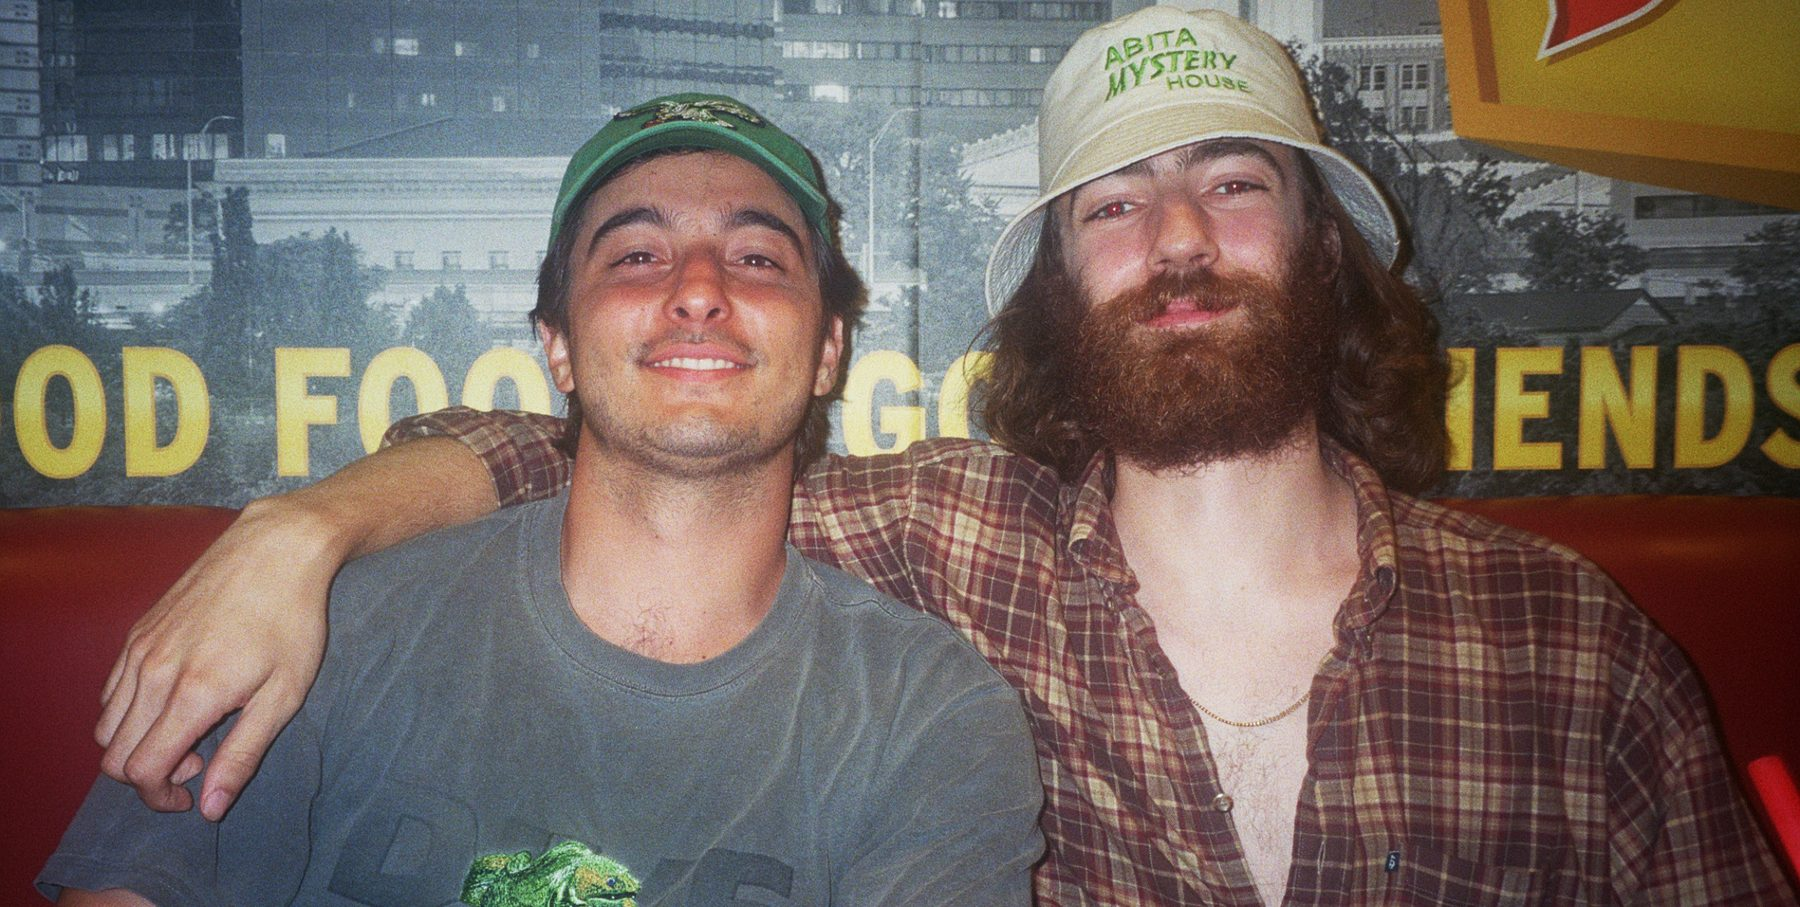
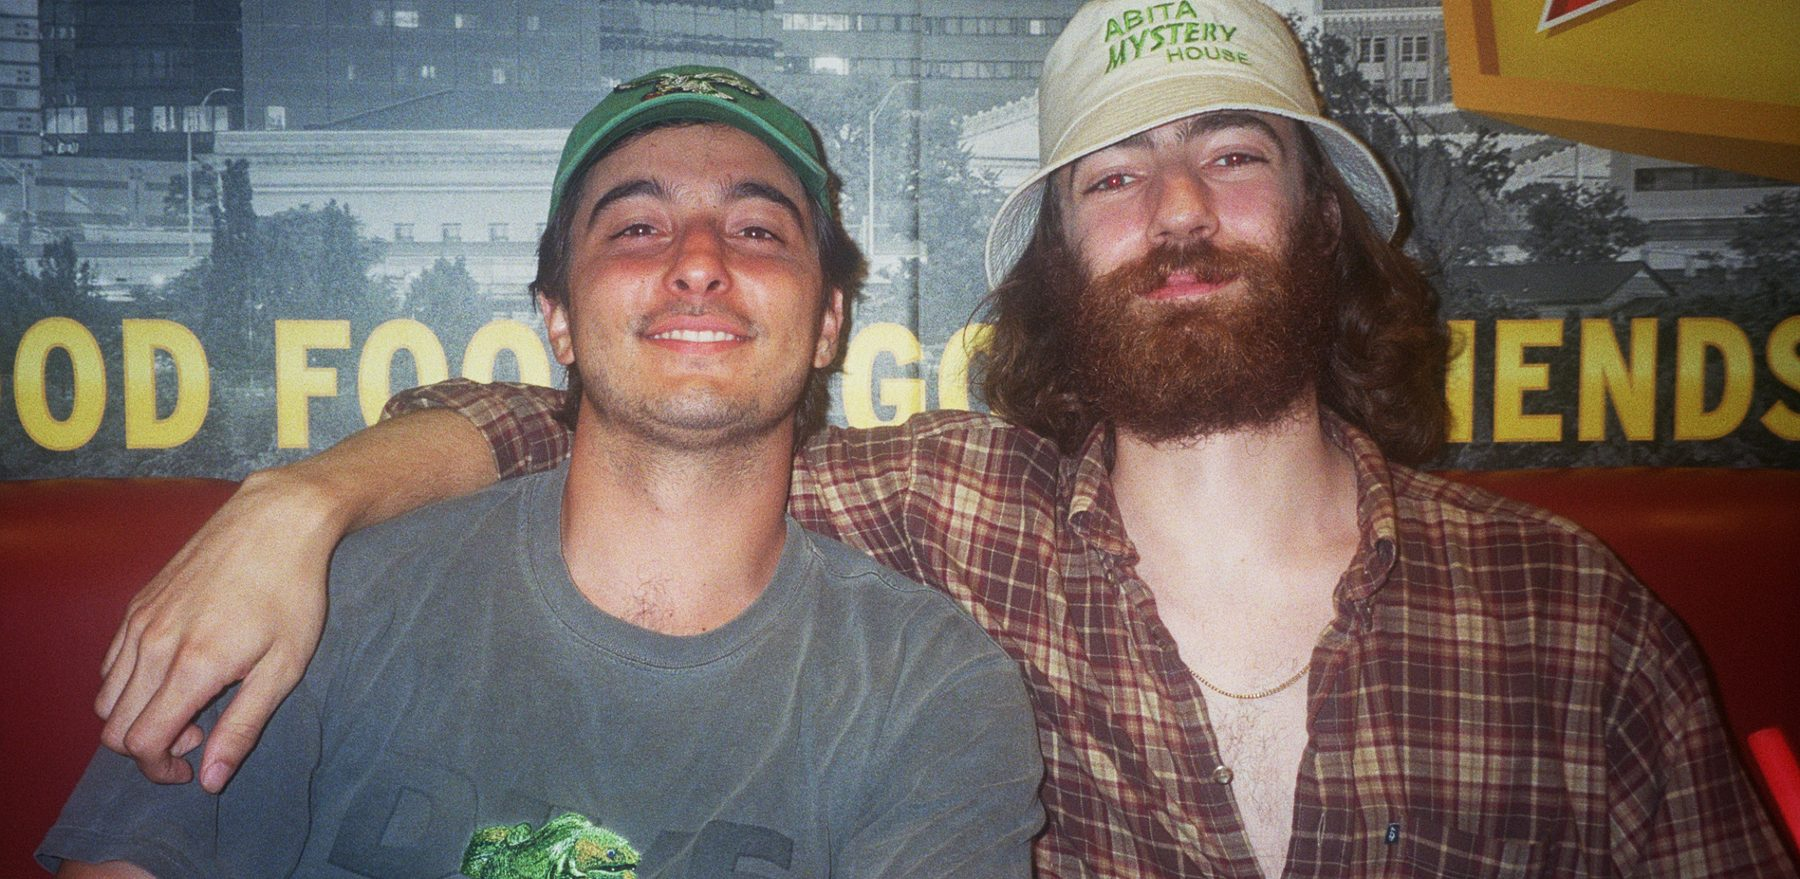
Larger photo-led home hero

diff --git a/css/styles.css b/css/styles.css
@@ -145,9 +145,9 @@ p  { margin: 0 0 1.1em; }
 .photo-hero img {
   display: block;
   width: 100%;
-  aspect-ratio: 1800 / 907;
-  max-height: max(280px, calc(100vh - 270px));
-  max-height: max(280px, calc(100svh - 270px));
+  aspect-ratio: 1800 / 879;
+  max-height: max(280px, calc(1.15 * (100vh - 270px)));
+  max-height: max(280px, calc(1.15 * (100svh - 270px)));
   object-fit: cover;
   object-position: center top;
 }
@@ -163,7 +163,7 @@ p  { margin: 0 0 1.1em; }
   color: var(--text-muted);
   text-align: center;
   margin: 14px 0 0;
-  padding-bottom: clamp(14px, 1.8vw, 22px);
+  padding-bottom: clamp(8px, 1vw, 14px);
 }
 
 /* --------------------------------------------------------------------------
@@ -187,7 +187,7 @@ p  { margin: 0 0 1.1em; }
 .hero-inner {
   max-width: var(--maxw);
   margin-inline: auto;
-  padding: clamp(30px, 5vw, 66px) 24px clamp(32px, 4.2vw, 52px);
+  padding: clamp(22px, 3.2vw, 44px) 24px clamp(32px, 4.2vw, 52px);
   display: grid;
   grid-template-columns: minmax(0, 1fr) minmax(240px, 340px);
   gap: clamp(32px, 6vw, 72px);

diff --git a/index.html b/index.html
@@ -18,7 +18,7 @@
 <meta property="og:title" content="Yesterday, Nothing In My Life Changed">
 <meta property="og:description" content="A raucous taxi driver pursues his musician dreams alongside his late friend's niece. A new feature written and directed by Adi Jahić.">
 <meta property="og:image" content="images/ynimlc-poster-cropped.jpg">
-<link rel="stylesheet" href="css/styles.css?v=202610021430">
+<link rel="stylesheet" href="css/styles.css?v=202610021434">
 </head>
 <body>
 
@@ -44,7 +44,7 @@
 
   <!-- ======================= PHOTO ======================= -->
   <section class="photo-hero">
-    <img src="images/home-hero.jpg" alt="Adi Jahić and Max Tanzer sitting in a diner booth" width="1800" height="907">
+    <img src="images/home-hero.jpg" alt="Adi Jahić and Max Tanzer sitting in a diner booth" width="1800" height="879">
     <div class="wrap">
       <p class="photo-hero-caption">Adi Jahić (left), writer/director, with cinematographer Max Tanzer on the set of <em>Yesterday, Nothing In My Life Changed</em>.</p>
     </div>

diff --git a/films/words-that-cant-be-unsaid.html b/films/words-that-cant-be-unsaid.html
@@ -17,7 +17,7 @@
 <meta property="og:title" content="Words That Can’t Be Unsaid &amp; Things That Can’t Be Undone (2019)">
 <meta property="og:description" content="A young man and woman deal with the complex push and pull of a recently ended relationship.">
 <meta property="og:image" content="../images/wordsthat.webp">
-<link rel="stylesheet" href="../css/styles.css?v=202610021430">
+<link rel="stylesheet" href="../css/styles.css?v=202610021434">
 </head>
 <body>
 

diff --git a/films/things-we-like.html b/films/things-we-like.html
@@ -17,7 +17,7 @@
 <meta property="og:title" content="Things We Like (2023)">
 <meta property="og:description" content="When Georgia meets a young man from Boston, Peter, she leaves her mundane life in suburban Vermont searching for something more.">
 <meta property="og:image" content="../images/things-we-like-poster.webp">
-<link rel="stylesheet" href="../css/styles.css?v=202610021430">
+<link rel="stylesheet" href="../css/styles.css?v=202610021434">
 </head>
 <body>
 

diff --git a/films/yesterday-nothing-in-my-life-changed.html b/films/yesterday-nothing-in-my-life-changed.html
@@ -17,7 +17,7 @@
 <meta property="og:title" content="Yesterday, Nothing In My Life Changed (2026)">
 <meta property="og:description" content="A raucous taxi driver pursues his musician dreams alongside his late friend's niece.">
 <meta property="og:image" content="../images/ynimlc-poster-cropped.jpg">
-<link rel="stylesheet" href="../css/styles.css?v=202610021430">
+<link rel="stylesheet" href="../css/styles.css?v=202610021434">
 </head>
 <body>
 

diff --git a/films/shorts.html b/films/shorts.html
@@ -17,7 +17,7 @@
 <meta property="og:title" content="Shorts">
 <meta property="og:description" content="Short films written and directed by Adi Jahić as an undergraduate.">
 <meta property="og:image" content="../images/darlings-poster.jpg">
-<link rel="stylesheet" href="../css/styles.css?v=202610021430">
+<link rel="stylesheet" href="../css/styles.css?v=202610021434">
 </head>
 <body>
 

diff --git a/about.html b/about.html
@@ -16,7 +16,7 @@
 <meta property="og:type" content="profile">
 <meta property="og:title" content="About — Adi Jahić">
 <meta property="og:description" content="Micro-budget independent filmmaker based in Providence and Los Angeles.">
-<link rel="stylesheet" href="css/styles.css?v=202610021430">
+<link rel="stylesheet" href="css/styles.css?v=202610021434">
 </head>
 <body>
 

diff --git a/photography.html b/photography.html
@@ -16,7 +16,7 @@
 <meta property="og:type" content="website">
 <meta property="og:title" content="Photography &mdash; Adi Jahi&#263;">
 <meta property="og:description" content="The series Americana, Summer and Skin Mag.">
-<link rel="stylesheet" href="css/styles.css?v=202610021430">
+<link rel="stylesheet" href="css/styles.css?v=202610021434">
 </head>
 <body>
 

diff --git a/films/darlings.html b/films/darlings.html
@@ -17,7 +17,7 @@
 <meta property="og:title" content="Darlings (2019)">
 <meta property="og:description" content="A young woman does her laundry.">
 <meta property="og:image" content="../images/darlings-poster.jpg">
-<link rel="stylesheet" href="../css/styles.css?v=202610021430">
+<link rel="stylesheet" href="../css/styles.css?v=202610021434">
 </head>
 <body>
 

diff --git a/films/short-film-two.html b/films/short-film-two.html
@@ -15,7 +15,7 @@
 <meta property="og:type" content="video.movie">
 <meta property="og:title" content="Short Film II (Year)">
 <meta property="og:description" content="Logline to come.">
-<link rel="stylesheet" href="../css/styles.css?v=202610021430">
+<link rel="stylesheet" href="../css/styles.css?v=202610021434">
 </head>
 <body>
 

diff --git a/films/short-film-one.html b/films/short-film-one.html
@@ -15,7 +15,7 @@
 <meta property="og:type" content="video.movie">
 <meta property="og:title" content="Short Film I (Year)">
 <meta property="og:description" content="Logline to come.">
-<link rel="stylesheet" href="../css/styles.css?v=202610021430">
+<link rel="stylesheet" href="../css/styles.css?v=202610021434">
 </head>
 <body>
 

diff --git a/films/_template.html b/films/_template.html
@@ -26,7 +26,7 @@
 <meta property="og:type" content="video.movie">
 <meta property="og:title" content="{{TITLE}} ({{YEAR}})">
 <meta property="og:description" content="{{LOGLINE}}">
-<link rel="stylesheet" href="../css/styles.css?v=202610021430">
+<link rel="stylesheet" href="../css/styles.css?v=202610021434">
 </head>
 <body>
 
